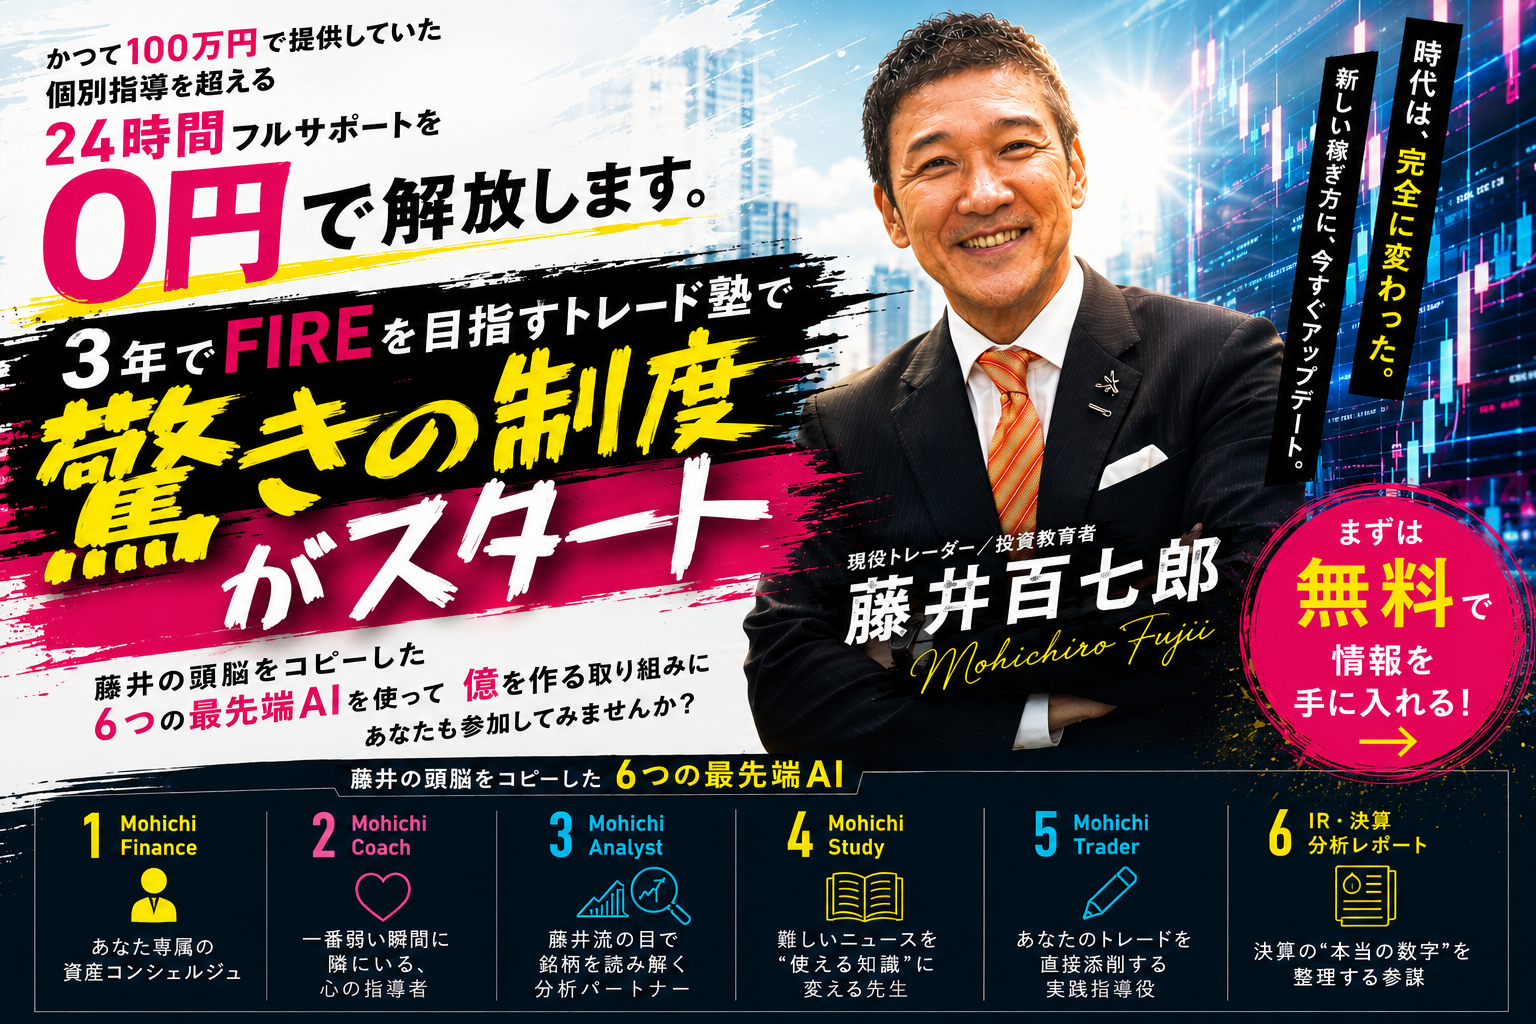
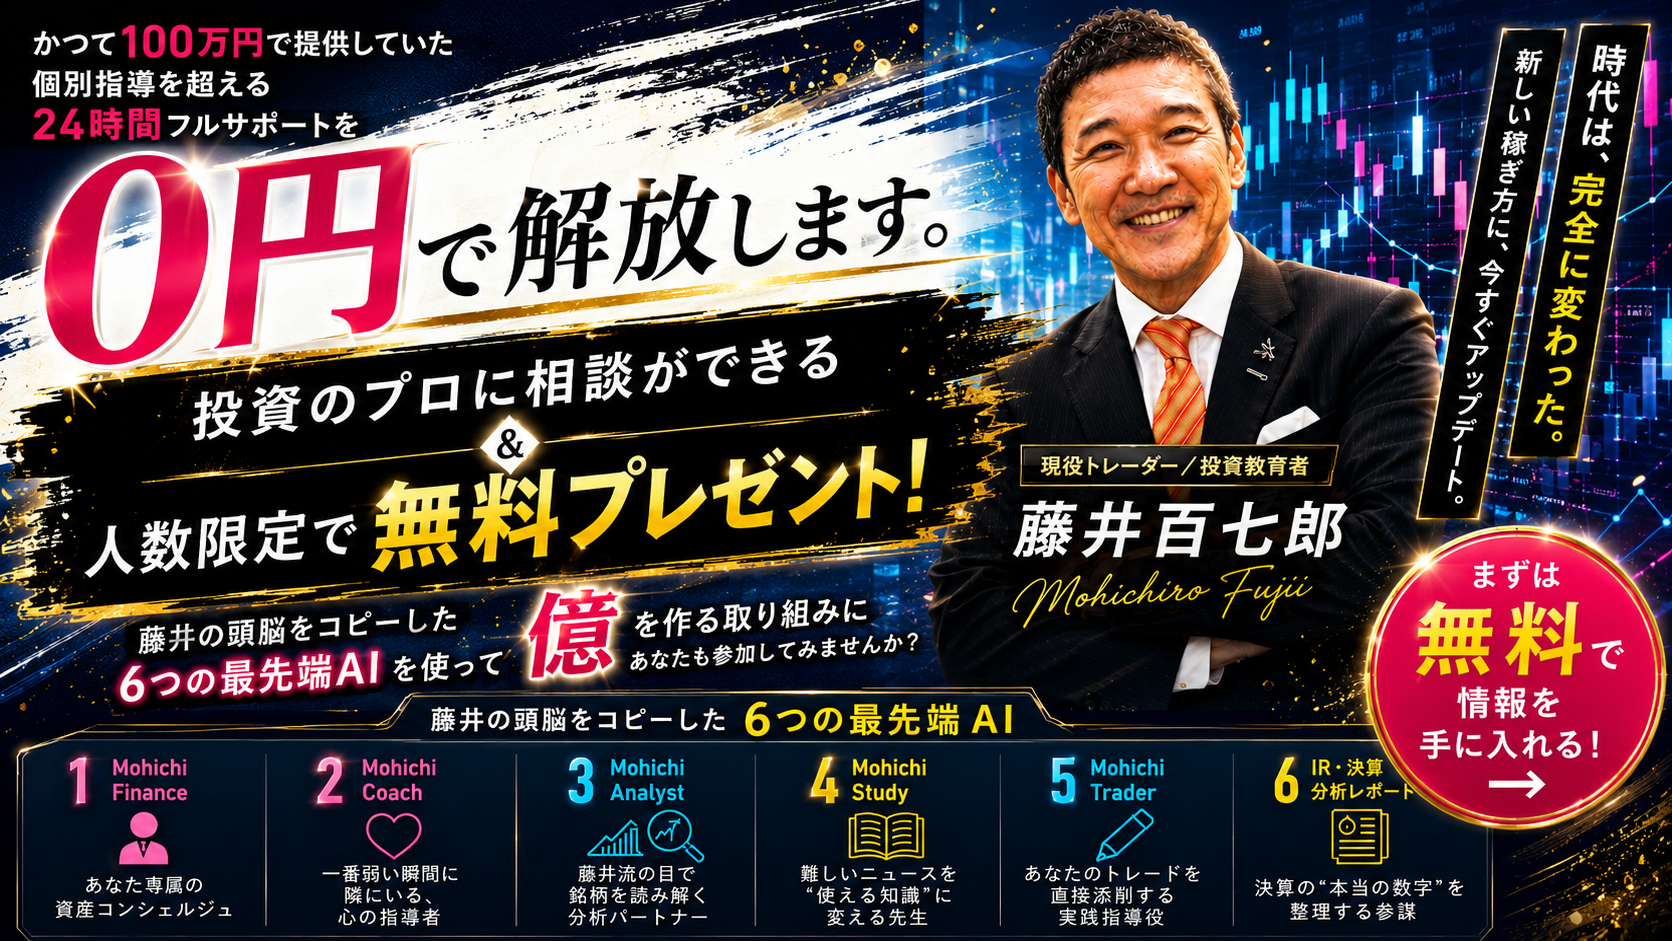
Replace FV with new version (0円 gold design, 無料プレゼント)

diff --git a/index.html b/index.html
@@ -264,7 +264,7 @@
   <a href="#offer" aria-label="無料で受け取る">
     <picture>
       <source media="(max-width:760px)" srcset="assets/fv_sp.png">
-      <img src="assets/fv_pc.png" alt="かつて100万円で提供していた個別指導を超える24時間フルサポートを0円で解放します。3年でFIREを目指すトレード塾で驚きの制度がスタート。藤井の頭脳をコピーした6つの最先端AI。藤井百七郎">
+      <img src="assets/fv_pc.png" alt="かつて100万円で提供していた個別指導を超える24時間フルサポートを0円で解放します。投資のプロに相談ができる＆人数限定で無料プレゼント。藤井の頭脳をコピーした6つの最先端AI。現役トレーダー／投資教育者 藤井百七郎">
     </picture>
   </a>
 </header>
